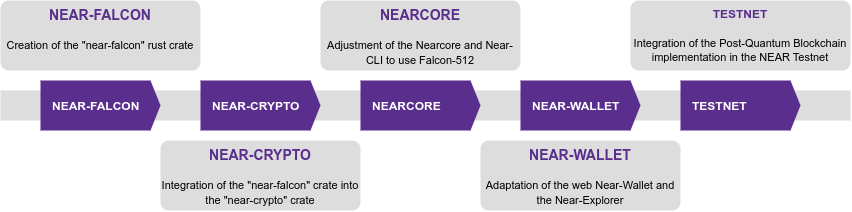
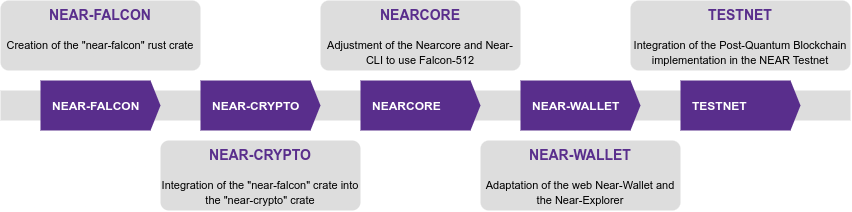
Center of roadmap

Changed region(s): [[0.7324, 0.1698, 1.0, 0.3113], [0.8239, 0.0283, 0.9155, 0.1132]]

diff --git a/index.html b/index.html
@@ -111,9 +111,9 @@
       <div class="subhead">ROADMAP</div>
       <h2 class="title-section">Post-Quantum Blockchain Roadmap</h2>
       <div class="divider mx-auto"></div>
-      <div class="row">
-        <img src="./assets/img/Roadmap-pqb.png" class="poster" alt="">
-      </div>
+        
+          <img src="./assets/img/Roadmap-pqb.png"  class="roadmap">
+        
     </div>
   </div> <!-- .page-section -->
 

diff --git a/assets/css/beautiful.css b/assets/css/beautiful.css
@@ -7,6 +7,14 @@
     height: auto;
 }
 
+.poster {
+    display: block;
+    margin-left: auto;
+    margin-right: auto;
+    max-width: 100%;
+    height: auto;
+}
+
 .wmn_icon {
     width: 100px;
 }

diff --git a/assets/css/theme.css b/assets/css/theme.css
@@ -1336,7 +1336,7 @@ a.text-dark:hover, a.text-dark:focus {
   position: relative;
   padding-top: 80px;
   padding-bottom: 80px;
-  color: #898798;
+  color: #66656e;
   overflow: hidden;
 }
 
